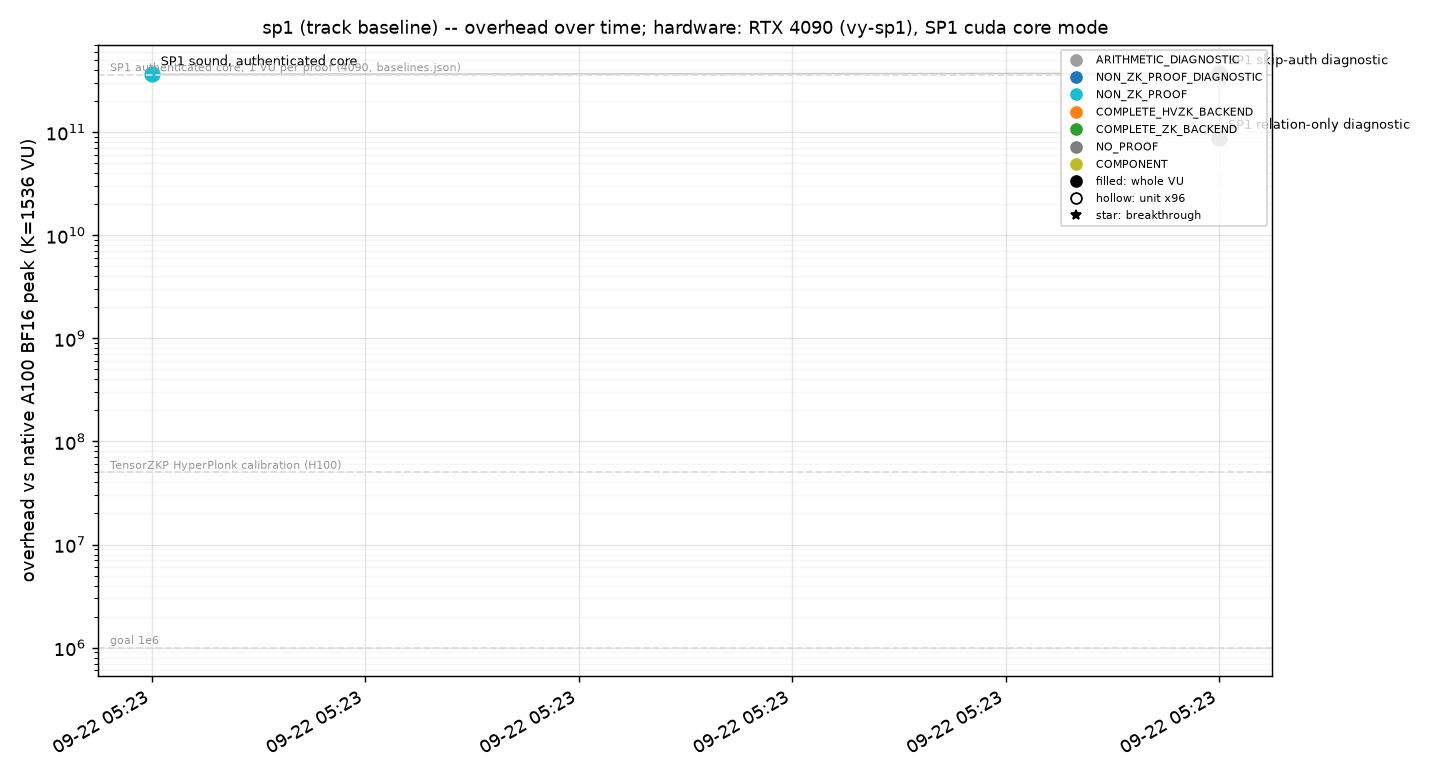
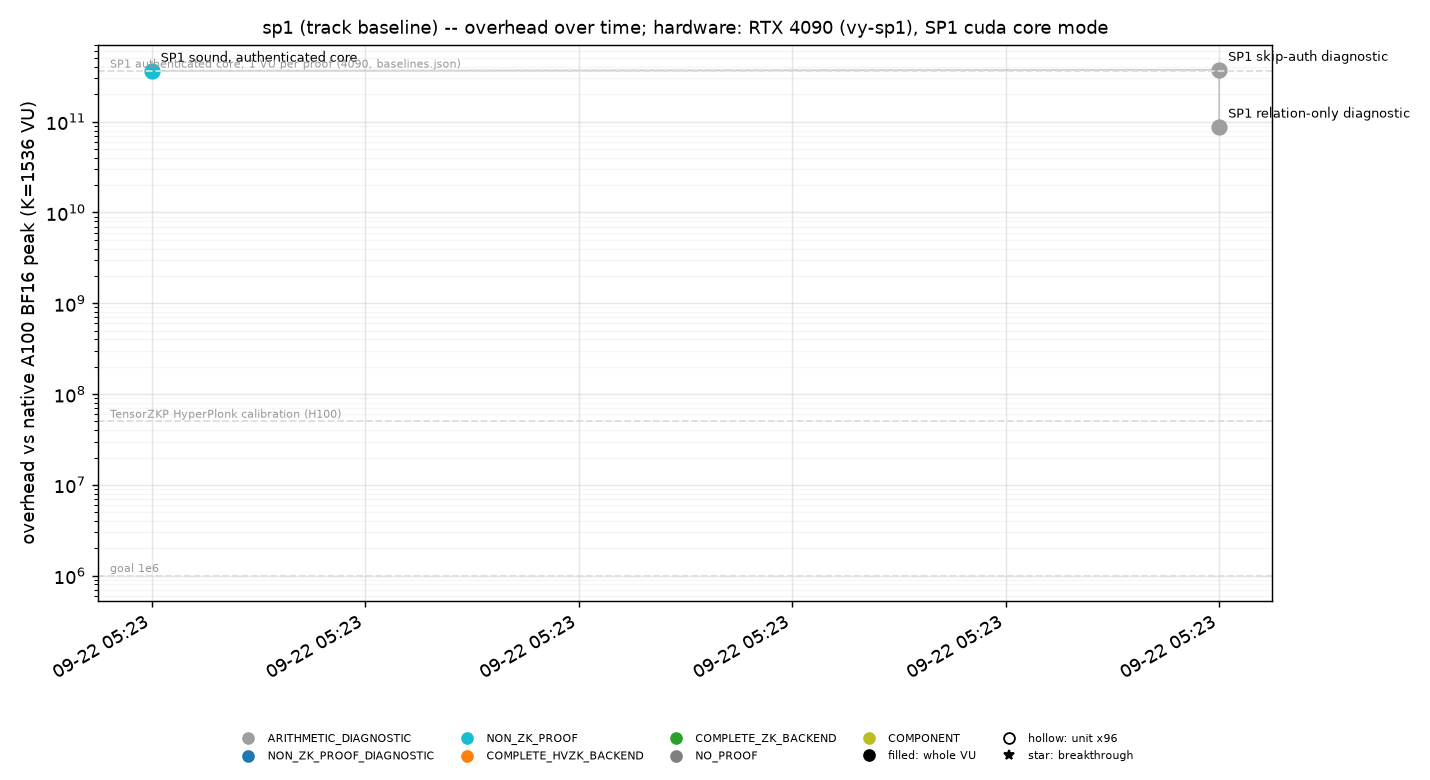
plots: legend below the axes

diff --git a/backends/numerical/python/verity_numerical/bench/plots.py b/backends/numerical/python/verity_numerical/bench/plots.py
@@ -80,7 +80,7 @@ def _finish(ax, title: str) -> None:
     ax.plot([], [], marker="o", markerfacecolor="black", markeredgecolor="black", linestyle="none", label="filled: whole VU")
     ax.plot([], [], marker="o", markerfacecolor="none", markeredgecolor="black", linestyle="none", label="hollow: unit x96")
     ax.plot([], [], marker="*", color="black", linestyle="none", label="star: breakthrough")
-    ax.legend(fontsize=6, loc="upper right")
+    ax.legend(fontsize=6, loc="upper center", bbox_to_anchor=(0.5, -0.22), ncol=5, frameon=False)
 
 
 def plot_lane(lane: str, entries: list[dict[str, Any]], out: Path) -> Path:
